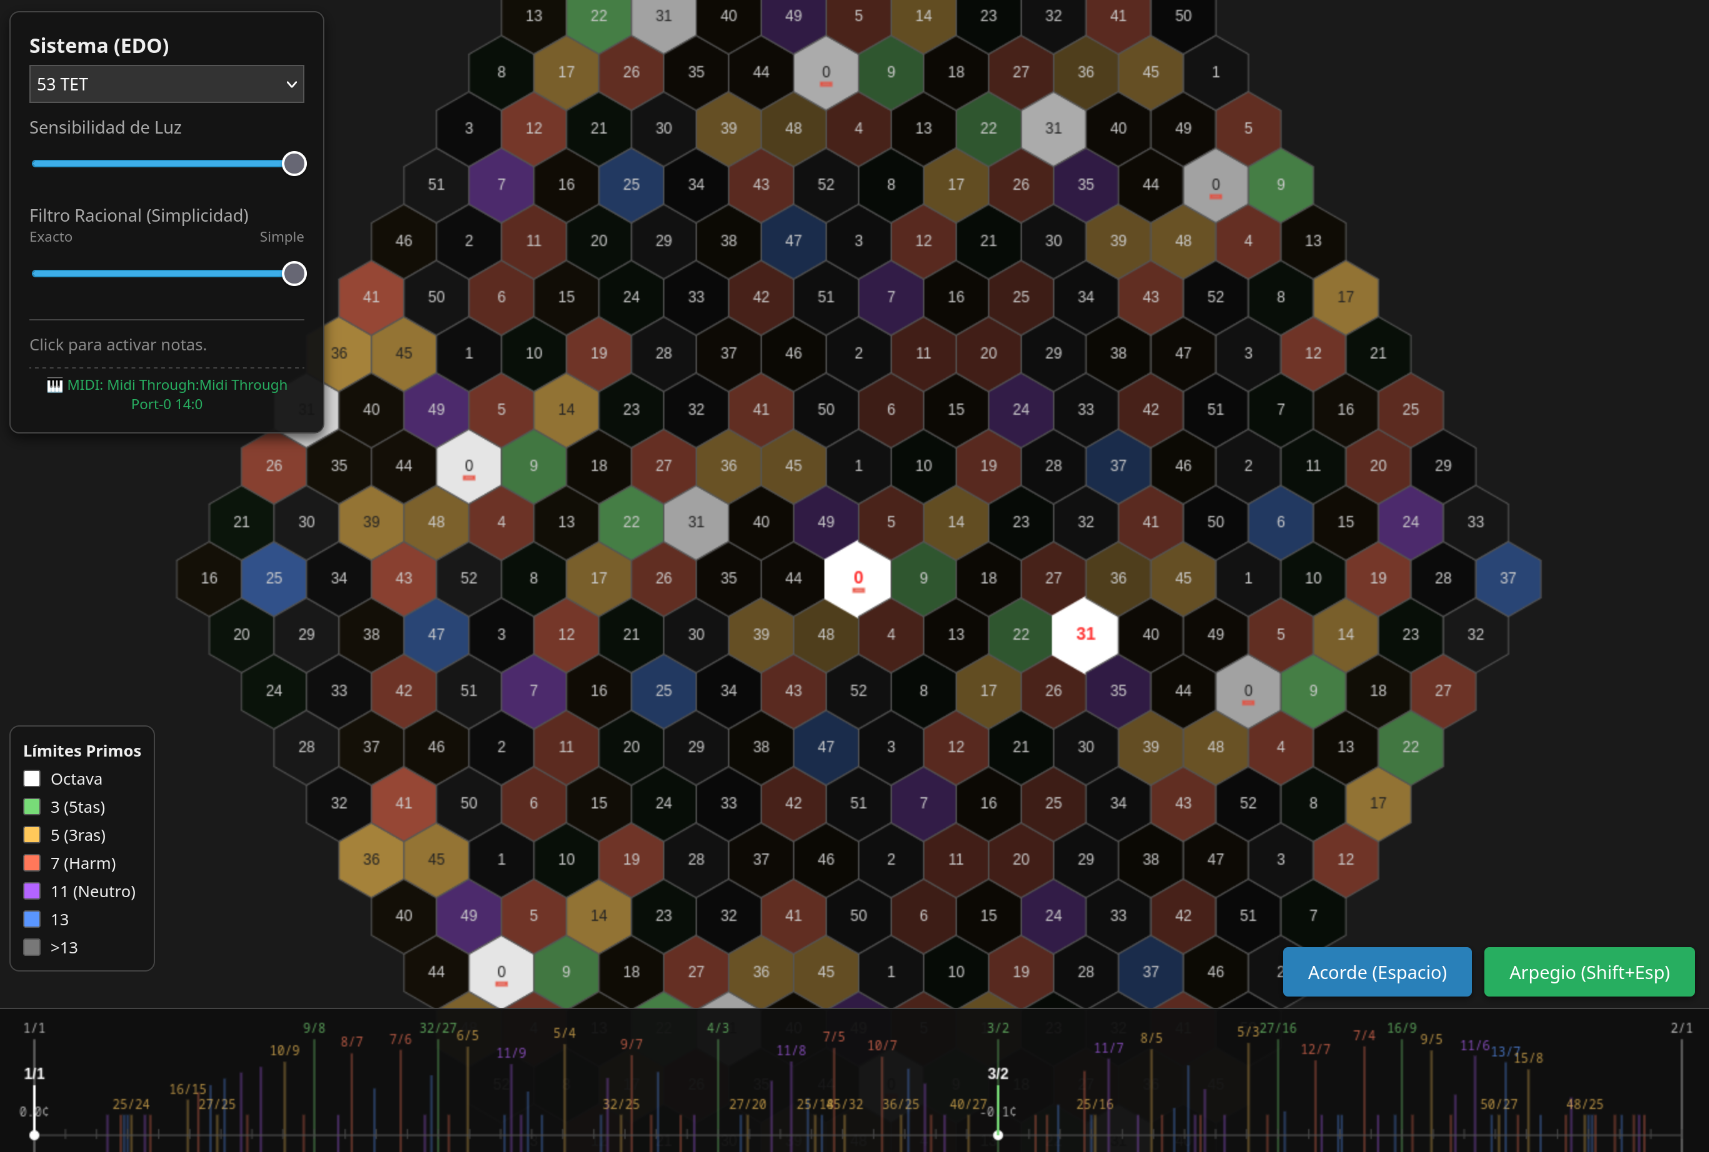
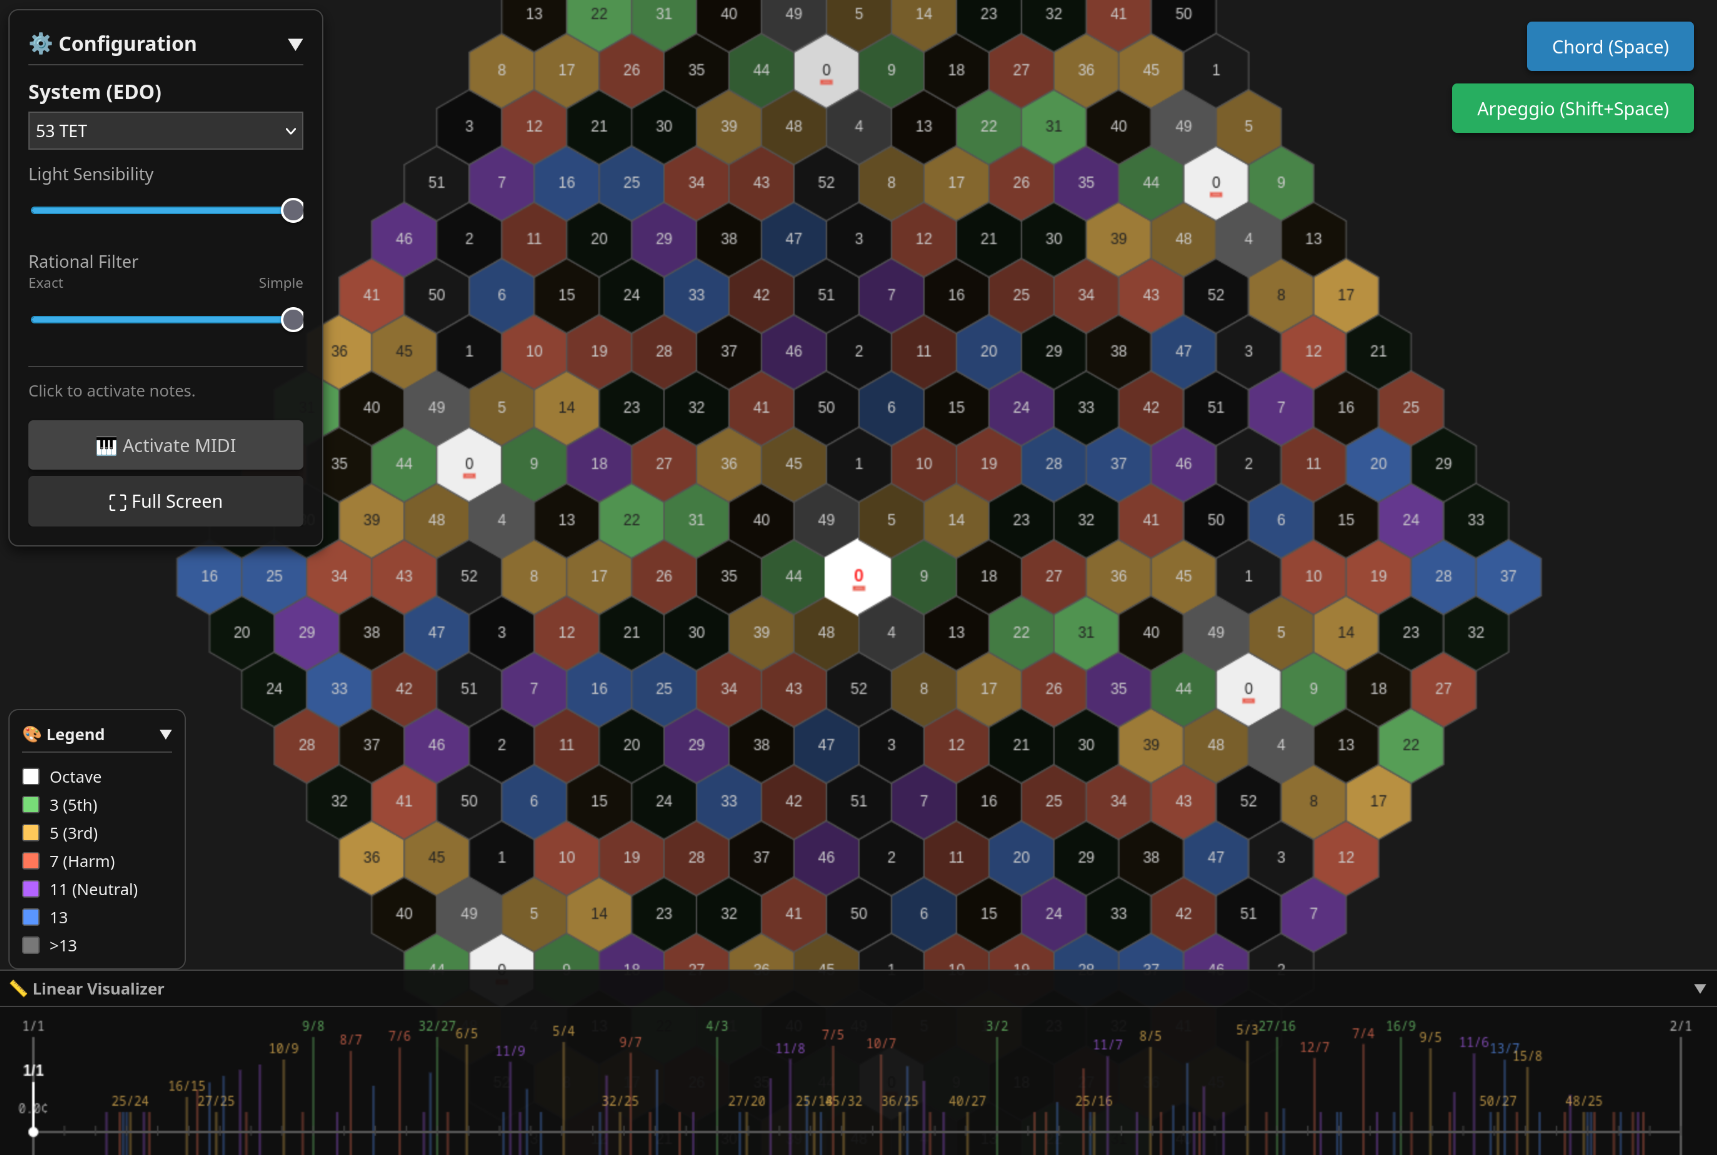
Add visual filters

diff --git a/js/views.js b/js/views.js
@@ -42,6 +42,13 @@ export class Renderer {
             initialDist: 0 // pinch zoom
         };
 
+        // ESTADO DE FILTROS
+        this.filters = {
+            limits: { 1: true, 3: true, 5: true, 7: true, 11: true, 13: true, 17: true },
+            factors: { consonance: true, clarity: true, tuning: true },
+            bandwidth: 1.0
+        };
+
         // --- LISTENERS ---
         this.canvas.addEventListener('mousedown', e => this.onStart(e));
         this.canvas.addEventListener('mousemove', e => this.onMove(e));
@@ -250,15 +257,39 @@ export class Renderer {
         }
     }
 
+    // Método para cambiar filtros de límite
+    toggleLimitFilter(limit, isActive) {
+        this.filters.limits[limit] = isActive;
+        this.refresh();
+    }
+
+    // Método para cambiar factores de brillo
+    toggleFactor(factor, isActive) {
+        this.filters.factors[factor] = isActive;
+        this.refresh();
+    }
+
+    // Método para cambiar ancho de banda (Recalcula LUT!)
+    setBandwidth(val) {
+        this.filters.bandwidth = parseFloat(val);
+        this.lut.recalculate(this.grid.tuning.edo, this.complexityWeight, this.filters.bandwidth);
+        this.refresh();
+    }
+
     recalculateHeatmap() {
         const activeCells = this.grid.getActiveCells();
         const cells = this.grid.getAll();
+        // Factor de ganancia para la curva de consonancia
         const gain = this.sensitivity / 10;
 
+        // Resetear estado visual de todas las celdas
         cells.forEach(c => { c.cachedColor = null; c.harmonicLabel = ""; });
+
+        // Si no hay notas activas, salimos (todo negro)
         if (activeCells.length === 0) return;
 
         cells.forEach(target => {
+            // No repintamos las notas que el usuario está tocando (se pintan blancas/activas luego)
             if (target.active) return;
 
             const baseColor = {r:0, g:0, b:0};
@@ -266,39 +297,87 @@ export class Renderer {
             let bestIntervalData = null;
             let minComplexity = 999;
 
+            // 1. Calcular Roughness acumulada y buscar el mejor intervalo racional
             activeCells.forEach(source => {
                 const diffSteps = Math.abs(target.pitchSteps - source.pitchSteps);
                 const lutData = this.lut.getData(diffSteps);
+
                 totalRoughness += lutData.roughness;
+
+                // Buscamos el intervalo más simple (menor complejidad)
                 if (lutData.limit > 0 && lutData.complexity < minComplexity) {
                     minComplexity = lutData.complexity;
                     bestIntervalData = lutData;
                 }
             });
 
+            // 2. Etiqueta de texto (si existe intervalo conocido)
             if (bestIntervalData) {
                 target.harmonicLabel = `${bestIntervalData.label} (Err: ${bestIntervalData.error.toFixed(1)}¢)`;
             }
 
-            // Cálculo de Fuerza Armónica
-            const consonance = 1 / (1 + (totalRoughness * (6 / gain)));
-            let finalColor = baseColor;
-
+            // 3. Determinar si el color del intervalo está PERMITIDO por los filtros
+            let targetColor = null;
             if (bestIntervalData && bestIntervalData.color) {
-                const clarity = Math.exp(-0.15 * bestIntervalData.complexity);
-                const tuningAccuracy = Math.max(0, Math.min(1, 1 - (bestIntervalData.error / 20)));
-
-                const logBlend =
-                WEIGHTS.clarity * Math.log(clarity + 1e-6) +
-                WEIGHTS.consonance * Math.log(consonance + 1e-6) +
-                WEIGHTS.tuning * Math.log(tuningAccuracy + 1e-6);
-
-                const harmonicStrength = Math.exp(logBlend);
-                finalColor = lerpColor(baseColor, bestIntervalData.color, harmonicStrength);
-            } else {
-                finalColor = lerpColor(baseColor, {r:60, g:20, b:20}, 1 - consonance);
+                // Verificamos si el checkbox de este límite (ej: 5 para 3ras) está activo
+                if (this.filters.limits[bestIntervalData.limit]) {
+                    targetColor = bestIntervalData.color;
+                }
             }
 
+            // --- CÁLCULO DE BRILLO (HARMONIC STRENGTH) ---
+
+            // A. Valores base (0.0 a 1.0)
+            // Consonancia física (siempre se calcula)
+            const val_consonance = 1 / (1 + (totalRoughness * (6 / gain)));
+
+            // Claridad y Afinación (solo si hay match racional)
+            let val_clarity = 1.0;
+            let val_tuning = 1.0;
+
+            if (bestIntervalData) {
+                val_clarity = Math.exp(-0.15 * bestIntervalData.complexity);
+                val_tuning = Math.max(0, Math.min(1, 1 - (bestIntervalData.error / 20)));
+            }
+
+            // B. Aplicar Pesos Dinámicos (Checkboxes)
+            // Si el checkbox está desactivado, el peso es 0.
+            const w_clarity = this.filters.factors.clarity ? WEIGHTS.clarity : 0;
+            const w_consonance = this.filters.factors.consonance ? WEIGHTS.consonance : 0;
+            const w_tuning = this.filters.factors.tuning ? WEIGHTS.tuning : 0;
+
+            // C. Mezcla Logarítmica
+            // Nota: Si un peso es 0, el término se anula (log(x)*0 = 0), por lo que no afecta al brillo.
+            const logBlend =
+            w_clarity * Math.log(val_clarity + 1e-6) +
+            w_consonance * Math.log(val_consonance + 1e-6) +
+            w_tuning * Math.log(val_tuning + 1e-6);
+
+            // Ajuste de normalización: Si desactivamos factores, el brillo total bajaría mucho.
+            // Opcional: Podríamos dividir por la suma de pesos activos para normalizar,
+            // pero dejarlo así permite al usuario "apagar" componentes visuales literalmente.
+
+            const harmonicStrength = Math.exp(logBlend);
+
+
+            // --- MEZCLA DE COLOR FINAL ---
+
+            let finalColor = baseColor;
+
+            if (targetColor) {
+                // CASO 1: Intervalo Racional identificado y permitido por filtros
+                finalColor = lerpColor(baseColor, targetColor, harmonicStrength);
+            } else {
+                // CASO 2: Intervalo desconocido o filtrado (Fallback)
+                // Usamos una visualización de disonancia cruda (Rojo oscuro)
+                // pero solo si el factor de Consonancia está activo.
+                if (this.filters.factors.consonance) {
+                    // Muestra rojo suave donde hay mucha disonancia (1 - consonance)
+                    finalColor = lerpColor(baseColor, {r:60, g:60, b:60}, 1 - val_consonance);
+                }
+            }
+
+            // Guardar color en caché (clamped 0-255)
             target.cachedColor = {
                 r: Math.max(0, Math.min(255, finalColor.r)),
                       g: Math.max(0, Math.min(255, finalColor.g)),

diff --git a/index.html b/index.html
@@ -42,7 +42,31 @@
             <div class="slider-labels"><span>Exact</span><span>Simple</span></div>
             <input type="range" id="complexitySlider" min="0.5" max="10.0" step="0.1" value="10.0">
 
-            <div class="info" id="cellInfo">Toca para activar notas.</div>
+            <div class="info" id="cellInfo">Touch to activate notes.</div>
+
+            <fieldset style="border:1px solid #444; padding:5px; margin-top:10px;">
+                <legend style="font-size:0.8em; color:#aaa;">Visual Filters</legend>
+
+                <!-- Filtros de Límite Primo -->
+                <div style="font-size:0.7em; margin-bottom:5px;">Limit Colors:</div>
+                <div id="limitFilters" style="display:flex; flex-wrap:wrap; gap:5px; font-size:0.7em;">
+                    <!-- Se generarán dinámicamente en JS -->
+                </div>
+
+                <!-- Componentes de Brillo -->
+                <div style="font-size:0.7em; margin-top:8px; margin-bottom:5px;">Light Factors:</div>
+                <div style="font-size:0.7em; display:flex; flex-direction:column; gap:2px;">
+                    <label><input type="checkbox" id="chkConsonance" checked> Consonance (Physics)</label>
+                    <label><input type="checkbox" id="chkClarity" checked> Clarity (Mathematics)</label>
+                    <label><input type="checkbox" id="chkTuning" checked> Tuning (Accuracy)</label>
+                </div>
+
+                <!-- Slider Plomp-Levelt -->
+                <div style="font-size:0.7em; margin-top:8px;">
+                    Bandwidth (Roughness): <span id="bwValue">1.0</span>x
+                </div>
+                <input type="range" id="bandwidthSlider" min="0.1" max="2.0" step="0.1" value="1.0">
+            </fieldset>
 
             <!-- Botón MIDI Manual -->
             <button id="btnMidi" style="margin-top:15px; width:100%; background:#444; color:#ccc;" class="btn">

diff --git a/js/math.js b/js/math.js
@@ -85,8 +85,8 @@ export class HarmonicMath {
      * Modelo de disonancia sensorial (Curva de Plomp-Levelt).
      * Calcula la "aspereza" teórica entre dos tonos.
      */
-    static complexRoughness(ratio) {
-        const N = 10; // Armónicos a considerar
+    static complexRoughness(ratio, bandwidthScale = 1.0) {
+        const N = 10;
         const f1 = 261.63;
         const f2 = f1 * ratio;
         let R = 0;
@@ -95,16 +95,17 @@ export class HarmonicMath {
             for (let j = 1; j <= N; j++) {
                 const p1 = f1 * i;
                 const p2 = f2 * j;
-                const a1 = 1 / (i ** 1.1); // Amplitud decreciente
+                const a1 = 1 / (i ** 1.1);
                 const a2 = 1 / (j ** 1.1);
 
                 const fMin = Math.min(p1, p2);
                 const df = Math.abs(p1 - p2);
-                // Ancho de banda crítico (Híbrido Vassilakis)
-                const cbw = 0.24 * (fMin + 25);
+
+                // Si bandwidthScale < 1, la curva es más estrecha (menos borrosa)
+                const cbw = 0.24 * (fMin + 25) * bandwidthScale;
 
                 const x = df / cbw;
-                const S1 = 3.5, S2 = 5.75;
+                const S1 = 3.5; const S2 = 5.75;
                 const amplitude = (a1 * a2) ** 0.1;
                 const dis = amplitude * (Math.exp(-S1 * x) - Math.exp(-S2 * x));
 

diff --git a/js/main.js b/js/main.js
@@ -212,3 +212,34 @@ btnArp.addEventListener('click', () => {
         }
     }
 });
+
+// Generar Checkboxes de Límites Dinámicamente
+const limitsDiv = document.getElementById('limitFilters');
+[3, 5, 7, 11, 13, 17].forEach(limit => {
+    const lbl = document.createElement('label');
+    lbl.style.marginRight = "8px";
+
+    const chk = document.createElement('input');
+    chk.type = "checkbox";
+    chk.checked = true;
+    chk.onchange = (e) => renderer.toggleLimitFilter(limit, e.target.checked);
+
+    lbl.appendChild(chk);
+    lbl.appendChild(document.createTextNode(limit));
+    limitsDiv.appendChild(lbl);
+});
+
+// Checkboxes de Factores
+document.getElementById('chkConsonance').onchange = (e) => renderer.toggleFactor('consonance', e.target.checked);
+document.getElementById('chkClarity').onchange = (e) => renderer.toggleFactor('clarity', e.target.checked);
+document.getElementById('chkTuning').onchange = (e) => renderer.toggleFactor('tuning', e.target.checked);
+
+// Slider de Ancho de Banda
+const bwSlider = document.getElementById('bandwidthSlider');
+const bwVal = document.getElementById('bwValue');
+bwSlider.addEventListener('change', (e) => { // 'change' al soltar, 'input' al mover
+    renderer.setBandwidth(e.target.value);
+});
+bwSlider.addEventListener('input', (e) => {
+    bwVal.innerText = e.target.value;
+});

diff --git a/js/models.js b/js/models.js
@@ -139,14 +139,14 @@ export class Grid {
 export class HarmonicLUT {
     constructor() { this.table = []; }
 
-    recalculate(edo, complexityWeight) {
+    recalculate(edo, complexityWeight, bandwidthScale = 1.0) {
         this.edo = parseInt(edo);
         const range = this.edo * 4;
         this.table = new Array(range);
 
         for (let steps = 0; steps < range; steps++) {
             const ratio = Math.pow(2, steps / this.edo);
-            const roughness = HarmonicMath.complexRoughness(ratio);
+            const roughness = HarmonicMath.complexRoughness(ratio, bandwidthScale);
 
             // Normalizar a una octava [1, 2)
             let normRatio = ratio;
